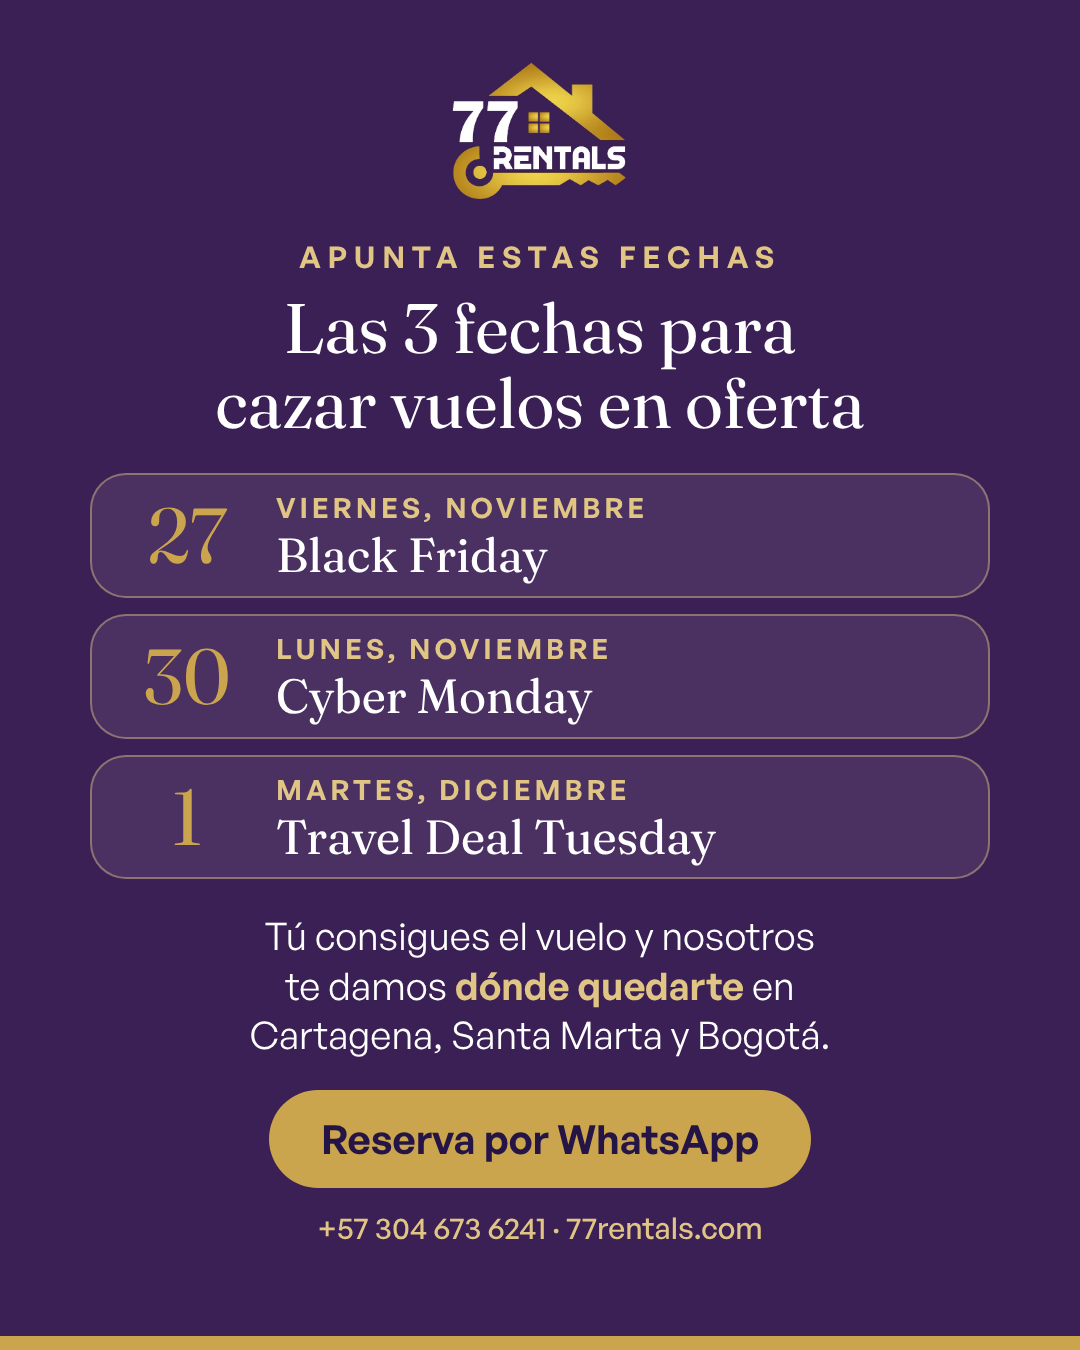
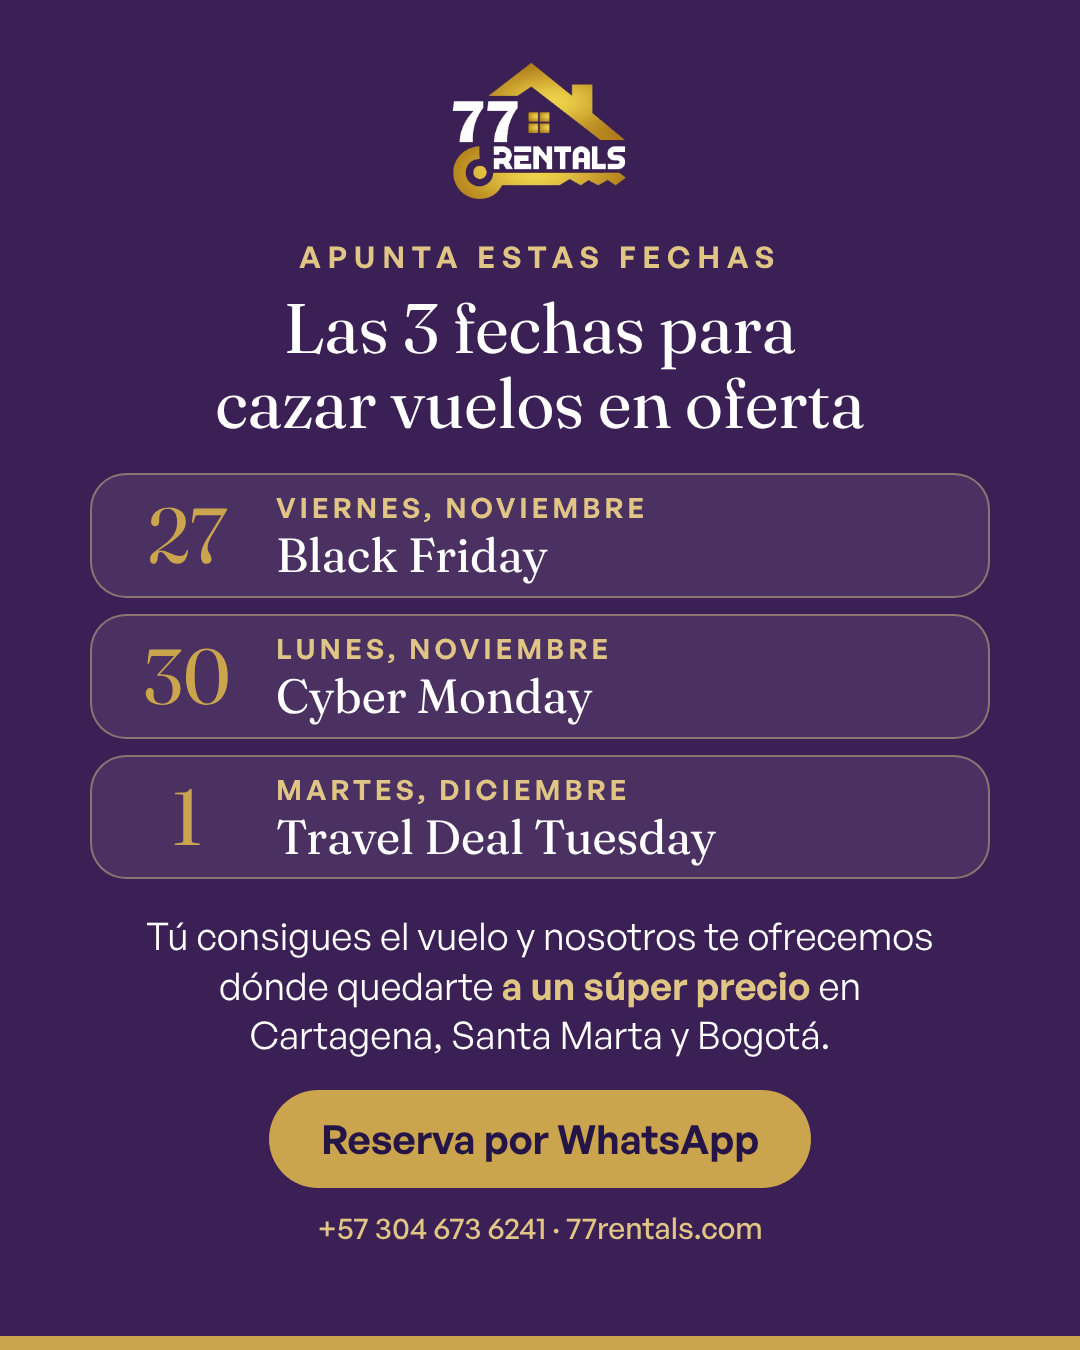
Vuelos post: offer stays at a super price
Claude-Session: https://claude.ai/code/session_01TDPBARZS3BR8x61REGPqaj

Changed region(s): [[0.1528, 0.6844, 0.8556, 0.7467]]

diff --git a/posters/vuelos/vuelos-black-friday.html b/posters/vuelos/vuelos-black-friday.html
@@ -38,7 +38,7 @@
     <div class="row"><div class="num">30</div><div class="info"><div class="day">Lunes, noviembre</div><div class="name">Cyber Monday</div></div></div>
     <div class="row"><div class="num">1</div><div class="info"><div class="day">Martes, diciembre</div><div class="name">Travel Deal Tuesday</div></div></div>
   </div>
-  <div class="text">Tú consigues el vuelo y nosotros te damos <strong>dónde quedarte</strong> en Cartagena, Santa Marta y Bogotá.</div>
+  <div class="text">Tú consigues el vuelo y nosotros te ofrecemos dónde quedarte <strong>a un súper precio</strong> en Cartagena, Santa Marta y Bogotá.</div>
   <div class="cta">Reserva por WhatsApp</div>
   <div class="foot">+57 304 673 6241 · 77rentals.com</div>
 </div>

diff --git a/posters/vuelos/caption.md b/posters/vuelos/caption.md
@@ -4,7 +4,7 @@ Viernes 27 de noviembre: Black Friday
 Lunes 30 de noviembre: Cyber Monday
 Martes 1 de diciembre: Travel Deal Tuesday
 
-Son los días en que muchas aerolíneas y agencias lanzan ofertas en vuelos. Tú consigues el tiquete y nosotros te damos dónde quedarte en Cartagena, Santa Marta y Bogotá. 🏠
+Son los días en que muchas aerolíneas y agencias lanzan ofertas en vuelos. Tú consigues el tiquete y nosotros te ofrecemos dónde quedarte a un súper precio en Cartagena, Santa Marta y Bogotá. 🏠
 
 Reserva por WhatsApp: +57 304 673 6241
 wa.me/573046736241 · 77rentals.com
